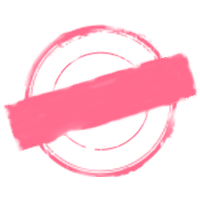
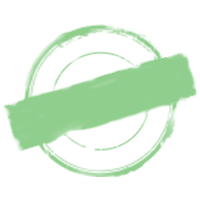
注单需要几秒才显示内容，而且等待时有中文， 优化 赢的图标应该绿色 输的图标应该红色

diff --git a/src/_skin001_order_detail/views/PageOrderDetail.vue.html b/src/_skin001_order_detail/views/PageOrderDetail.vue.html
@@ -1,0 +1,81 @@
+<div v-if="isloadSecLang" style="display: flex;justify-content: center;">
+    <div class="default-color"
+        style=" margin-top: 8px; margin-bottom: 8px;padding-top:8px ;padding-bottom: 12px;font-size: 12px;width: 600px;min-width: 350px">
+        <div class="d-flex align-center">
+            <img src="@/_skin001/assets/icon/icon_blue.png" max-height="30" height="30" max-width="10" width="10">
+            </img>
+            <div style="margin-left: 8px;margin-top: 5px;" class="text-14 font-weight-bold">{{item.cpn}}</div>
+        </div>
+        <div class="rounded order-content"
+            style="background-color: #fff; margin: 12px,0px;padding: 12px;  margin-left: 12px; margin-right: 12px;margin-top: 8px;">
+            <div class="d-flex text-14 font-weight-bold top-text">
+                <div v-if="item.c_type == 2">{{item.content}}</div>
+                <div v-else>{{ OrderTitleUtils.getTeamName(item, false)}}{{ OrderTitleUtils.getOrderTitle(item,true)}}
+                </div>
+                <v-spacer />
+                <div style="margin-right: 8px;">@{{TransMarketPrice(item.odds)}}</div>
+            </div>
+
+            <div class="text-14 ">
+                <span v-if="item.state && Object.keys(item.state).length > 0">{{LangUtil("滚球")}}</span>
+                <span class="font-weight-bold "
+                    v-if="item.state && Object.keys(item.state).length > 0">{{OrderTitleUtils.getScoreStr(item)}}</span>
+                {{item.market_type_text}}
+            </div>
+            <div class="text-14 d-flex flex-wrap">
+                <span style="margin-right: 4px;"> {{item.home_name}} <span style="margin-right: 4px;margin-left: 4px;"
+                        class="font-weight-bold">VS</span>
+                         {{item.away_name}}
+                         <span style="color: #ff3e3e;margin-right: 8px;" class="font-weight-bold"
+                             v-if="item.status !== 3 && item.c_type != 2">{{getHadResultStr()}}
+                        </span>
+                </span>
+                
+            </div>
+            <!-- <div class="text-14 " v-if="listQuery.is_settle != 1">
+                <span >{{ getStateStr(myProxy.event_states(item)).states_str}}</span>
+                <span class="font-weight-bold "> {{getStateStr(myProxy.event_states(item)).scoreStr}}</span>
+            </div>
+            <div class="my-2 custom-hr"></div> -->
+            <div style="margin-top: 8px;margin-bottom: 8px;" class="custom-hr"></div>
+            <div width="100%">
+                {{LangUtil("订单状态")}}
+                <span class="font-weight-bold"
+                    :style="{ 'color': statusMapColor[item.status]}">{{statusMap[item.status]}}</span>
+            </div>
+            <div v-if="item.status==3" class="font-weight-bold" :style="{ 'color': statusMapColor[item.status]} ">
+                {{LangUtil(item.mark)}}</div>
+
+            <div width="100%">{{LangUtil("投注金额")}}<span class="font-weight-bold"> {{item.currency}}
+                    {{amountFormat(item.stake,true) }}</span>
+            </div>
+
+            <div width="100%" v-if="item.is_settle == 0">{{LangUtil("预计可赢")}}
+                <span class="font-weight-bold" style="color: #0325b4">{{item.currency+"
+                    "+amountFormat(item.expected_win,true,3)}}</span>
+            </div>
+            <div width="100%">{{LangUtil("订单编号")}} <span class="font-weight-bold"> {{item.partner_order}}</span></div>
+            <div width="100%">{{LangUtil("投注时间")}}
+                <span class="font-weight-bold">
+                    {{dateFormat(getDateByTimeZone(item.create_time_timestamp * 1000 ,GlobalVar.zone) ,'yyyy/MM/dd hh:mm:ss')}}</span>
+            </div>
+
+            <div width="100%" v-if="item.settle_time_timestamp">{{LangUtil("结算时间")}}
+                <span class="font-weight-bold">
+                    {{dateFormat(getDateByTimeZone(item.settle_time_timestamp * 1000 ,GlobalVar.zone) ,'yyyy/MM/dd hh:mm:ss')}}</span>
+            </div>
+
+            <div style="margin-right: 10px;" class="winlostdiv" v-if="item.win && item.is_settle == 1"> 
+                <span style="margin-right: 4px;">{{LangUtil("输赢")}} {{item.currency}}</span>
+                <span class="font-weight-bold" :class="item.win>=0 ? 'success--text' : 'error--text' ">
+                    {{item.win>=0 ? "+" : ""}}{{amountFormat(item.win,true,3)}}
+                </span>
+            </div>
+            <div class="win-type">
+                <img style="width: 100px;height: 100px;" :src="getWinType(item)" v-if="item.win_type">
+                <p>{{getWinTypeStr(item)}}</p>
+
+            </div>
+        </div>
+    </div>
+</div>

diff --git a/src/_skin001_order_detail/views/PageOrderDetail.ts b/src/_skin001_order_detail/views/PageOrderDetail.ts
@@ -1,0 +1,112 @@
+import AbstractView from "@/core/abstract/AbstractView";
+import { Watch, Component } from "vue-property-decorator";
+import LangUtil from "@/core/global/LangUtil";
+import { getQueryVariable } from "@/core/global/Functions";
+import Http from "@/core/Http";
+import net from "@/net/setting";
+import PlatConfig from "@/core/config/PlatConfig";
+import GlobalVar from "@/core/global/GlobalVar";
+import LangConfig from "@/core/config/LangConfig";
+import { TransMarketPrice, amountFormat, dateFormat, formatEventTime, getDateByTimeZone } from "@/core/global/Functions";
+import OrderTitleUtils from "@/core/global/OrderTitleUtils";
+@Component
+export default class PageOrderDetail extends AbstractView {
+    LangUtil = LangUtil;
+    dateFormat = dateFormat;
+    getDateByTimeZone = getDateByTimeZone;
+    amountFormat = amountFormat;
+    TransMarketPrice = TransMarketPrice;
+    isloadSecLang = false;
+    GlobalVar=GlobalVar;
+    OrderTitleUtils = OrderTitleUtils;
+    item=<any>[];
+    form = {
+        lang: getQueryVariable("lang") || "zh_CN",
+        order_id: getQueryVariable("order_id"),
+        plat_id: getQueryVariable("plat_id"),
+        timezone: getQueryVariable("timezone"),
+        sign: getQueryVariable("sign"),
+    };
+
+    mounted() {
+        const {lang,order_id,plat_id,timezone} = this.form;
+        Http.post(net.HttpType.public_plat_config, {plat_id,timezone,order_id,lang}).then((response:any)=>{
+            PlatConfig.config = response.data;
+            GlobalVar.plat_id = <any>plat_id;
+            GlobalVar.zone = <any>timezone;
+            GlobalVar.cdnUrl = PlatConfig.config.client.cdn_url;
+            GlobalVar.lang = lang;
+            LangConfig.load(this.form.lang).then(()=>{
+                Http.post(net.HttpType.public_order_detail_data, this.form).then((response:any)=>{
+                    this.init();
+                    this.isloadSecLang = true
+                    this.item = response.data;
+                })
+            })
+
+        })
+    }
+    init(){
+        this.statusMap = {
+            0: LangUtil("确认中"), //确认中
+            1: LangUtil("确认成功"), //确认成功
+            3: LangUtil("已拒绝"), //拒绝
+            4: LangUtil("已取消"), //拒绝
+            5: LangUtil("无效"), //无效
+        };
+    }
+    //根据盘口展示已结算的赛果角球还是比分等
+    getHadResultStr(){
+        if (!this.item.real_time_state) {
+            return
+        }
+        const copyitem = JSON.parse(JSON.stringify(this.item));
+        copyitem.state = copyitem.real_time_state;
+
+        return OrderTitleUtils.getScoreStr(copyitem);
+    }
+    statusMapColor = {
+        0: "#FF7128", //确认中
+        1: "#007E29", //确认成功
+        3: "#7E0000", //拒绝
+        4: "#FF2828", //取消
+    };
+
+    // 注单状态
+    statusMap = {
+        0: LangUtil("确认中"), //确认中
+        1: LangUtil("确认成功"), //确认成功
+        3: LangUtil("已拒绝"), //拒绝
+        4: LangUtil("已取消"), //拒绝
+        5: LangUtil("无效"), //无效
+    };
+    getWinType(item: any) {
+        //win_type: 1，赢，2 半赢，3 平手，4，输，5 输一半
+        switch (item.win_type) {
+            case 1:
+                return require(`@/_skin001/assets/win_type/win.png`);
+            case 2:
+                return require(`@/_skin001/assets/win_type/halfwin.png`);
+            case 3:
+                return require(`@/_skin001/assets/win_type/draw.png`);
+            case 4:
+                return require(`@/_skin001/assets/win_type/lose.png`);
+            case 5:
+                return require(`@/_skin001/assets/win_type/halflose.png`);
+        }
+    }
+    getWinTypeStr(item: any) {
+        switch (item.win_type) {
+            case 1:
+                return LangUtil("赢");
+            case 2:
+                return LangUtil("半赢");
+            case 3:
+                return LangUtil("平手");
+            case 4:
+                return LangUtil("输");
+            case 5:
+                return LangUtil("输一半");
+        }
+    }
+}

diff --git a/src/_skin001_order_detail/views/PageOrderDetail.vue.scss b/src/_skin001_order_detail/views/PageOrderDetail.vue.scss
@@ -1,0 +1,144 @@
+.text-10 {
+    font-size: 10px;
+}
+.text-11 {
+    font-size: 11px;
+}
+.text-12 {
+    font-size: 12px;
+}
+.text-13 {
+    font-size: 13px;
+}
+.text-14 {
+    font-size: 14px;
+}
+.text-15 {
+    font-size: 15px;
+}
+.text-16 {
+    font-size: 16px;
+}
+.text-17 {
+    font-size: 17px;
+}
+.text-18 {
+    font-size: 18px;
+}
+.text-19 {
+    font-size: 19px;
+}
+.text-20 {
+    font-size: 20px;
+}
+.text-21 {
+    font-size: 21px;
+}
+.text-22 {
+    font-size: 22px;
+}
+.text-23 {
+    font-size: 23px;
+}
+.text-24 {
+    font-size: 24px;
+}
+.text-25 {
+    font-size: 25px;
+}
+.text-26 {
+    font-size: 26px;
+}
+.text-27 {
+    font-size: 27px;
+}
+.text-28 {
+    font-size: 28px;
+}
+.text-29 {
+    font-size: 29px;
+}
+.text-30 {
+    font-size: 30px;
+}
+.text-31 {
+    font-size: 31px;
+}
+.text-32 {
+    font-size: 32px;
+}
+.text-36 {
+    font-size: 36px;
+}
+.text-37 {
+    font-size: 37px;
+}
+.text-38 {
+    font-size: 38px;
+}
+.text-39 {
+    font-size: 39px;
+}
+.text-40 {
+    font-size: 40px;
+}
+.text-48 {
+    font-size: 48px;
+}
+
+.text-54 {
+    font-size: 54px;
+}
+
+.default-color {
+    color: #302f2f !important;
+    box-shadow: 0px 2px 4px 0px #9f9f9f !important;
+}
+.d-flex{
+    display: flex !important;
+}
+.align-center{
+    align-content: center;
+}
+.font-weight-bold{
+    font-weight: bold;
+}
+.order-content {
+    position: relative;
+    .order-result-icon {
+        position: absolute;
+        right: 0px;
+        bottom: 0px;
+    }
+}
+.winlostdiv{
+    display: flex;
+    justify-content: flex-end;
+    font-size: 12px;
+    align-items: center;
+}
+.success--text{
+    color: #007E29;
+}
+.error--text{
+    color: #FF2828;
+}
+.win-type{
+    position: absolute;
+    bottom: 20px;
+    right: 10px;
+    width: 100px;
+    height: 100px;
+    text-align: center;
+    p{
+        margin-top: -66px;
+        color: white;
+        font-size: 18px;
+        transform: rotate(-17deg);
+    }
+}
+.custom-hr {
+    border-top: 1px dashed #d8d8d8;
+    margin-top: 8px;
+    margin-bottom: 8px;
+}

diff --git a/src/_skin001_order_detail/views/PageOrderDetail.vue b/src/_skin001_order_detail/views/PageOrderDetail.vue
@@ -1,0 +1,19 @@
+<template src="./PageOrderDetail.vue.html" lang="html"></template>
+<style src="./PageOrderDetail.vue.scss" lang="scss" scoped></style>
+
+<script lang="ts">
+import Component from "vue-class-component";
+import PageOrderDetail from "./PageOrderDetail";
+import Overlay from "@/views/widget/overlay/Overlay.vue";
+
+@Component({
+    components: {
+        Overlay,
+    },
+})
+export default class extends PageOrderDetail {
+    mounted() {
+        window.scrollTo(0, 0);
+    }
+}
+</script>

diff --git a/vue.config.js b/vue.config.js
@@ -79,5 +79,11 @@ module.exports = {
             filename: "skin001_help.html",
             title: "help",
         },
+        skin001_order_detail: {
+            entry: "src/_skin001_order_detail/main.ts",
+            template: "public/index001_order_detail.html",
+            filename: "index001_order_detail.html",
+            title: "detail",
+        },
     },
 };

diff --git a/src/_skin001_competion_result/proxy/CompetionResultProxy.ts b/src/_skin001_competion_result/proxy/CompetionResultProxy.ts
@@ -18,7 +18,7 @@ export default class CompetionResultProxy extends puremvc.Proxy {
         sign: getQueryVariable("sign"),
         token: getQueryVariable("t") || "",
     };
-    isloadSecLang = true;
+    isloadSecLang = false;
     
     nowtime:any;
     panel = <any>[];

diff --git a/src/_skin001_order_detail/main.ts b/src/_skin001_order_detail/main.ts
@@ -1,0 +1,8 @@
+import Vue from "vue";
+import App from "./views/PageOrderDetail.vue";
+import "@/style/fontsize.scss";
+
+Vue.config.productionTip = false;
+new Vue({
+    render: (h) => h(App),
+}).$mount("#app");
